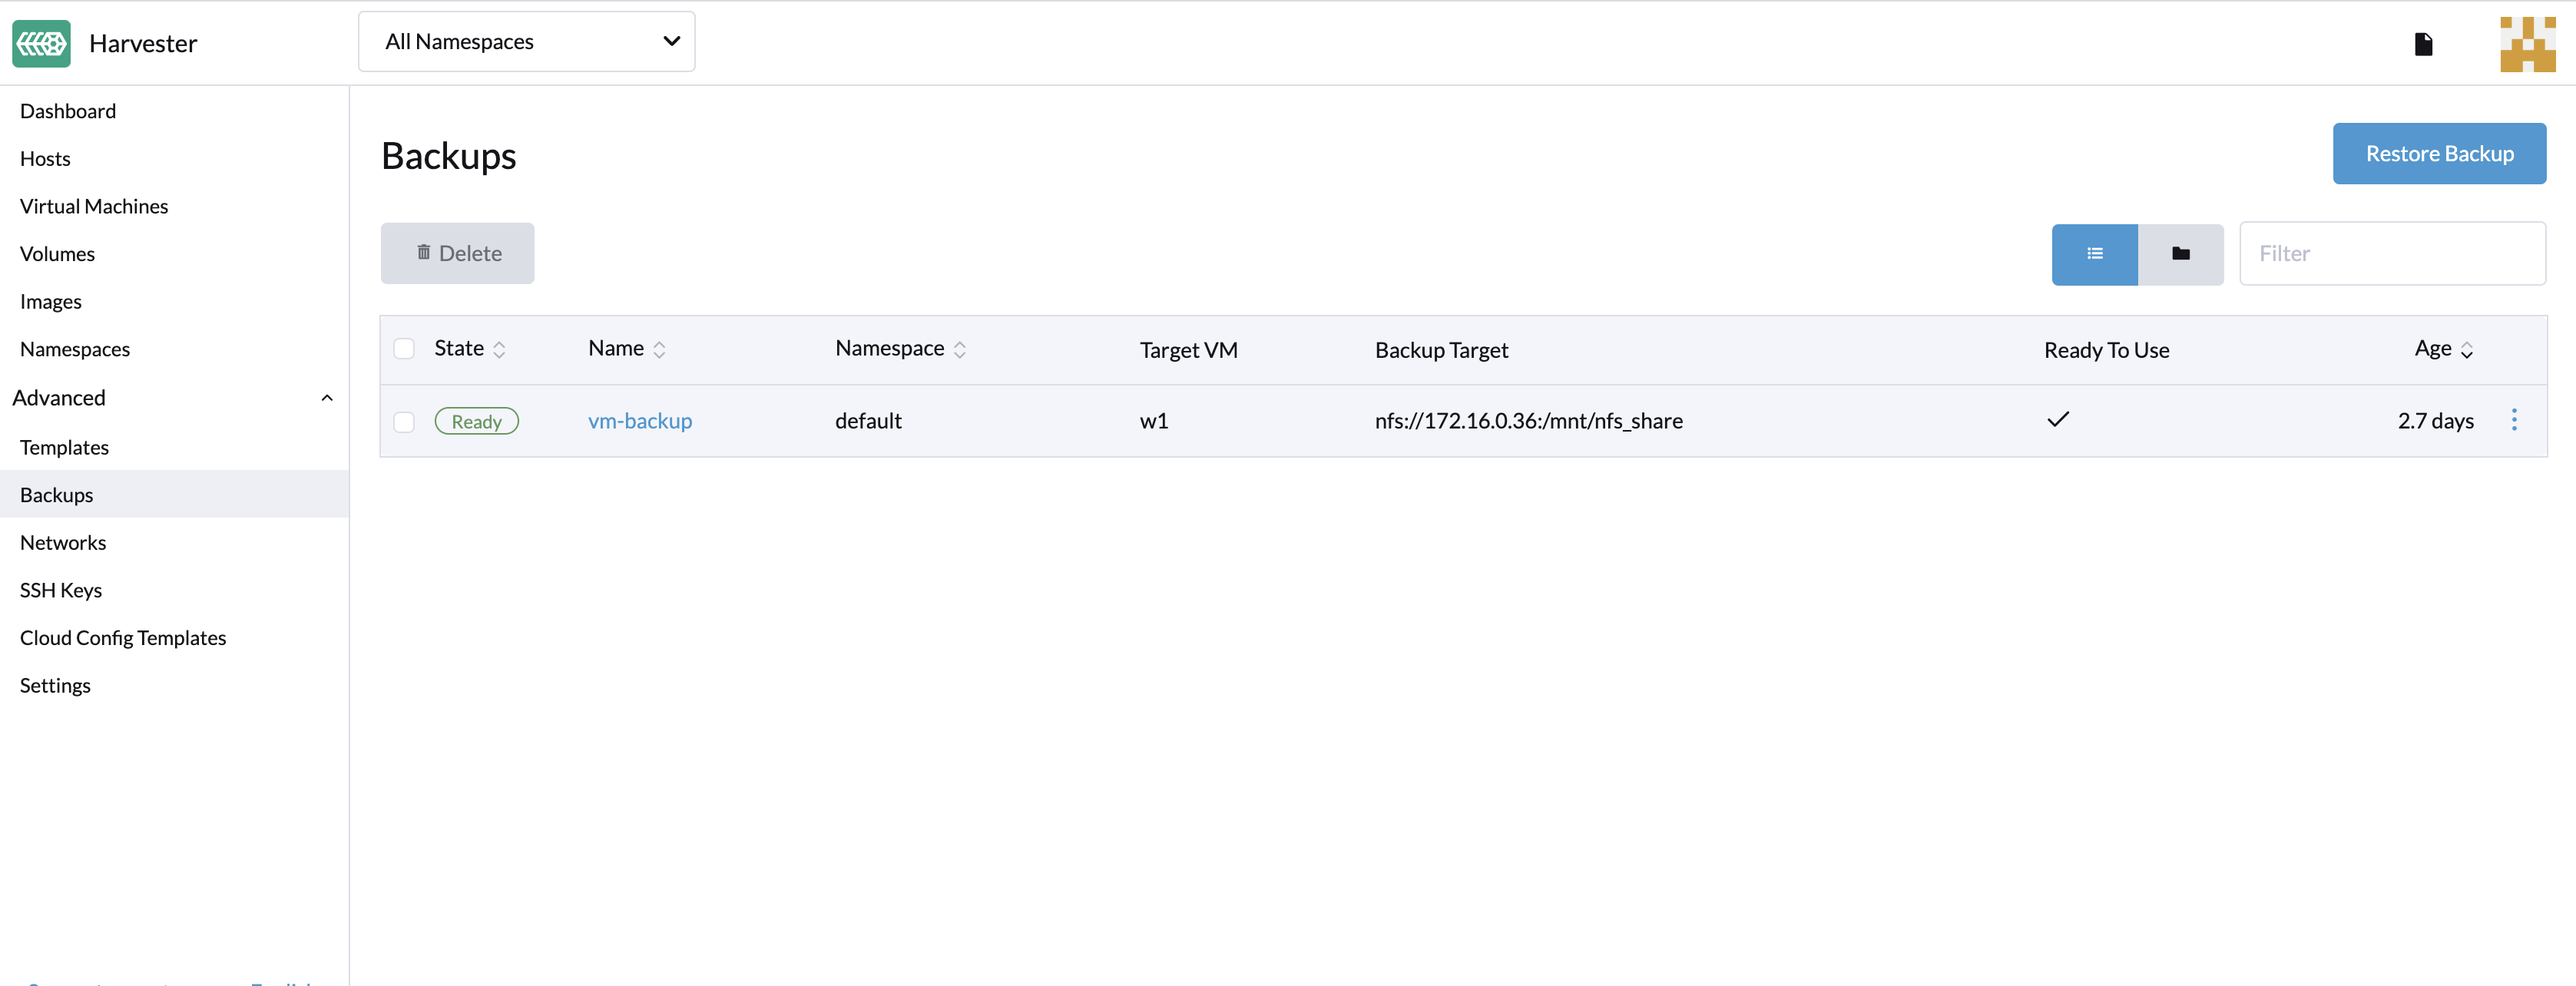
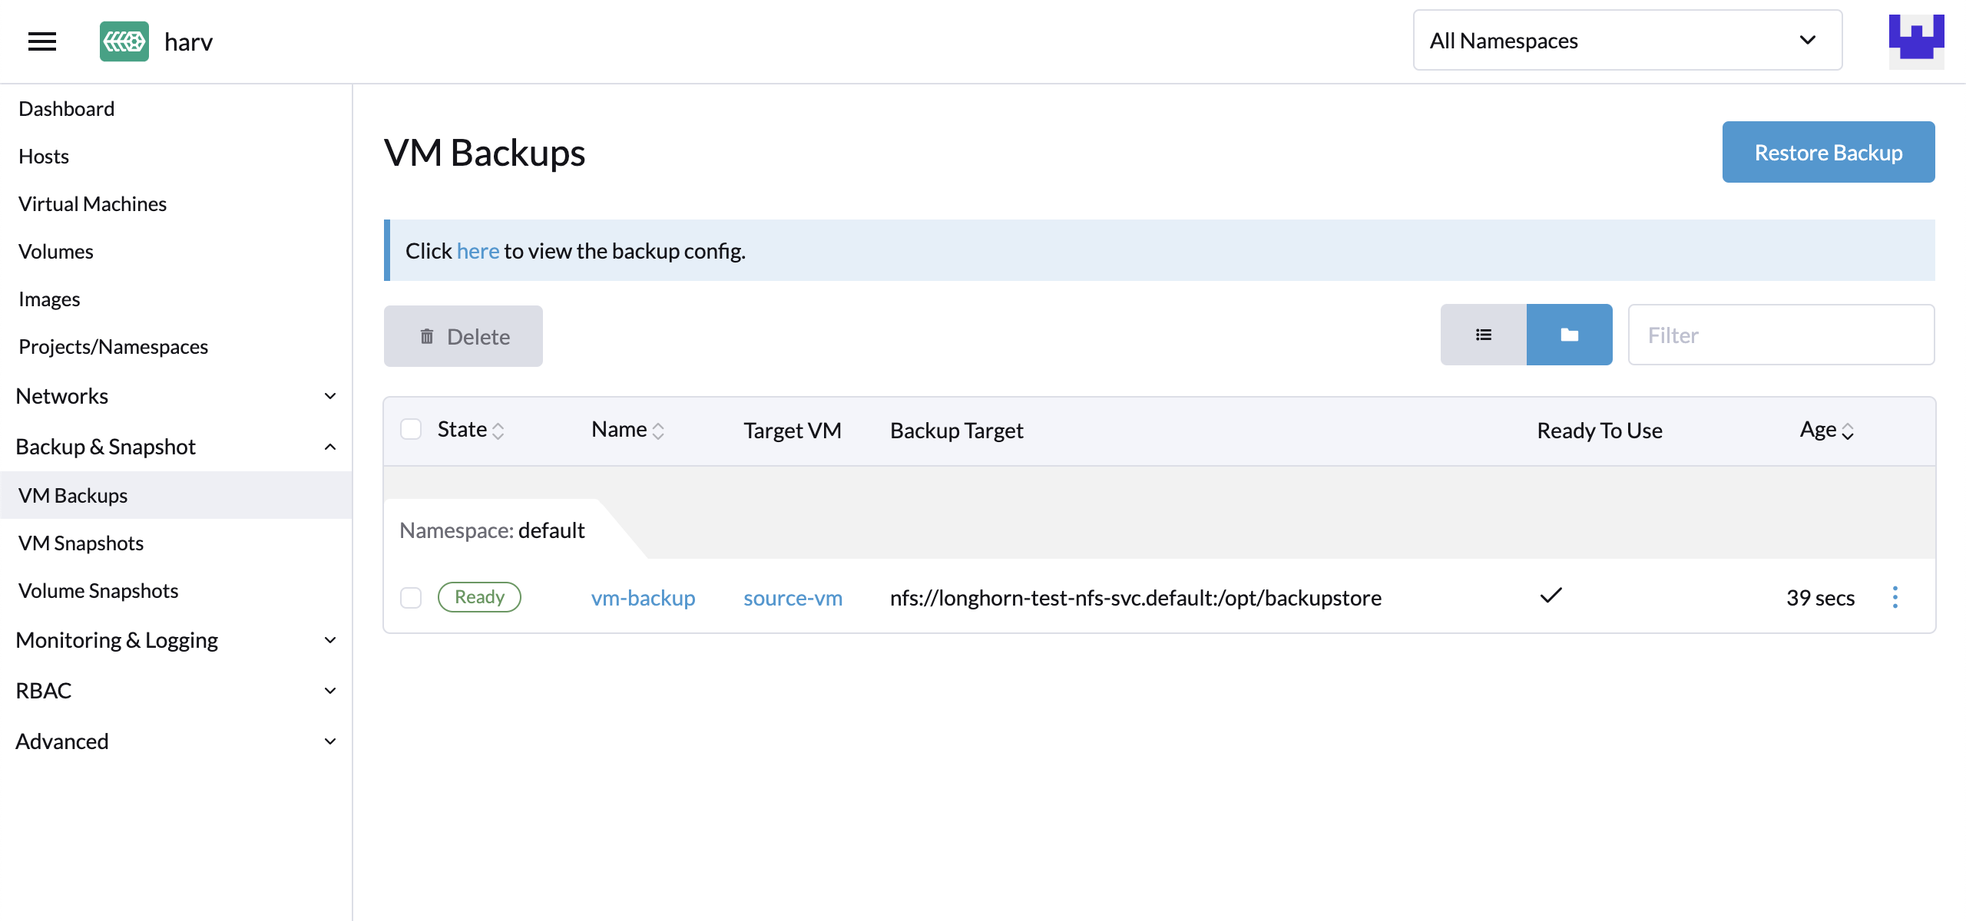
feat: add snapshot

diff --git a/docs/vm/backup-restore.md b/docs/vm/backup-restore.md
@@ -1,17 +1,17 @@
 ---
 sidebar_position: 5
-sidebar_label: VM Backup & Restore
+sidebar_label: VM Backup, Snapshot & Restore
 title: ""
 keywords:
   - Harvester
   - harvester
   - Rancher
   - rancher
-  - VM Backup & Restore
-Description: VM backups are created from the Virtual Machines page. The VM backup volumes will be stored in the Backup Target(an NFS or S3 server) and they can be used to either restore a new VM or replace an existing VM.
+  - VM Backup, Snapshot & Restore
+Description: VM backups are created from the Virtual Machines page. The VM backup volumes will be stored in the Backup Target(an NFS or S3 server) and they can be used to either restore a new VM or replace an existing VM. VM Snapshot can work without Backup Target.
 ---
 
-# VM Backup & Restore
+## VM Backup & Restore
 
 _Available as of v0.3.0_
 
@@ -24,7 +24,7 @@ A backup target must be set up. For more information, see [Configure Backup Targ
 
 :::
 
-## Configure Backup Target
+### Configure Backup Target
 
 A backup target is an endpoint used to access a backup store in Harvester. A backup store is an NFS server or S3 compatible server that stores the backups of VM volumes. The backup target can be set at `Settings > backup-target`.
 
@@ -39,29 +39,29 @@ A backup target is an endpoint used to access a backup store in Harvester. A bac
 | Certificate        | string | Paste to use a self-signed SSL certificate of your S3 server |
 | VirtualHostedStyle | bool   | Use `VirtualHostedStyle` access only; e.g., Alibaba Cloud (Aliyun) OSS                    |
 
-## Create a VM backup
+### Create a VM backup
 
 1. Once the backup target is set, go to the `Virtual Machines` page.
 1. Click `Take Backup` of the VM actions to create a new VM backup.
 1. Set a custom backup name and click `Create` to create a new VM backup.
 ![create-backup.png](/img/v1.1/vm/create-backup.png)
 
-**Result:** The backup is created. You will receive a notification message, and you can also go to the `Advanced > Backups` page to view all VM backups.
+**Result:** The backup is created. You will receive a notification message, and you can also go to the `Backup & Snapshot > VM Backups` page to view all VM backups.
 
-The `ReadyToUse` status will be set to `true` once the Backup is complete.
+The `ReadyToUse` status will be set to `true` once the backup is complete.
 
-Users can either choose to restore a new VM or replace an existing VM using this backup.
+Users can either restore a new VM or replace an existing VM using this backup.
 
-## Restore a new VM using a backup
+### Restore a new VM using a backup
 
 To restore a new VM from a backup, follow these steps:
 
-1. Go to the `Backups` page.
+1. Go to the `VM Backups` page.
 1. Specify the new VM name and click `Create`.
 1. A new VM will be restored using the backup volumes and metadata, and you can access it from the `Virtual Machines` page.
 ![restore-vm.png](/img/v1.1/vm/restore-vm.png)
 
-## Replace an Existing VM using a backup
+### Replace an existing VM using a backup
 
 You can replace an existing VM using the backup with the same VM backup target.
 
@@ -69,12 +69,12 @@ You can choose to either delete or retain the previous volumes. By default, all 
 
 **Requirements:** The VM must exist and is required to be in the powered-off status.
 
-1. Go to the `Backups` page.
-1. Click `Create`.
+1. Go to the `VM Backups` page.
+1. Click `Replace Existing`.
 
 The restore process can be viewed from the `Virtual Machines` page.
 
-## Restore a new VM on another Harvester cluster
+### Restore a new VM on another Harvester cluster
 
 _Available as of v1.0.0_
 
@@ -86,7 +86,7 @@ You must manually configure the virtual machine images with the same name on the
 
 :::
 
-### Upload the same VM images to a new cluster
+#### Upload the same VM images to a new cluster
 
 1. Check the existing image name (normally starts with `image-`) and create the same one on the new cluster.
 ```
@@ -113,9 +113,53 @@ spec:
 EOF
 ```
 
-### Restore a new VM in a new cluster
+#### Restore a new VM in a new cluster
 
 1. Setup the same backup target in a new cluster. And the backup controller will automatically sync the backup metadata to the new cluster.
-2. Go to the `Backups` page.
+2. Go to the `VM Backups` page.
 3. Select the synced VM backup metadata and choose to restore a new VM with a specified VM name.
 4. A new VM will be restored using the backup volumes and metadata. You can access it from the `Virtual Machines` page.
+
+## VM Snapshot & Restore
+
+_Available as of v1.1.0_
+
+VM snapshots are created from the **Virtual Machines** page. The VM snapshot volumes will be stored in the cluster, and they can be used to either restore a new VM or replace an existing VM.
+![vm-snapshot.png](/img/v1.1/vm/vm-snapshot.png)
+
+### Create a VM snapshot
+
+1. Go to the `Virtual Machines` page.
+1. Click `Take VM Snapshot` of the VM actions to create a new VM snapshot.
+1. Set a custom snapshot name and click `Create` to create a new VM snapshot.
+![create-snapshot.png](/img/v1.1/vm/create-snapshot.png)
+
+**Result:** The snapshot is created. You can also go to the `Backup & Snapshot > VM Snapshots` page to view all VM snapshots.
+
+The `ReadyToUse` status will be set to `true` once the snapshot is complete.
+
+Users can either restore a new VM or replace an existing VM using this snapshot.
+
+### Restore a new VM using a snapshot
+
+To restore a new VM from a snapshot, follow these steps:
+
+1. Go to the `VM Snapshots` page.
+1. Specify the new VM name and click `Create`.
+1. A new VM will be restored using the snapshot volumes and metadata, and you can access it from the `Virtual Machines` page.
+![restore-vm-snapshot.png](/img/v1.1/vm/restore-vm-snapshot.png)
+
+### Replace an existing VM using a snapshot
+
+You can replace an existing VM using the snapshot.
+
+:::note
+
+You can only choose to retain the previous volumes.
+
+:::
+
+1. Go to the `VM Snapshots` page.
+1. Click `Replace Existing`.
+
+The restore process can be viewed from the `Virtual Machines` page.
